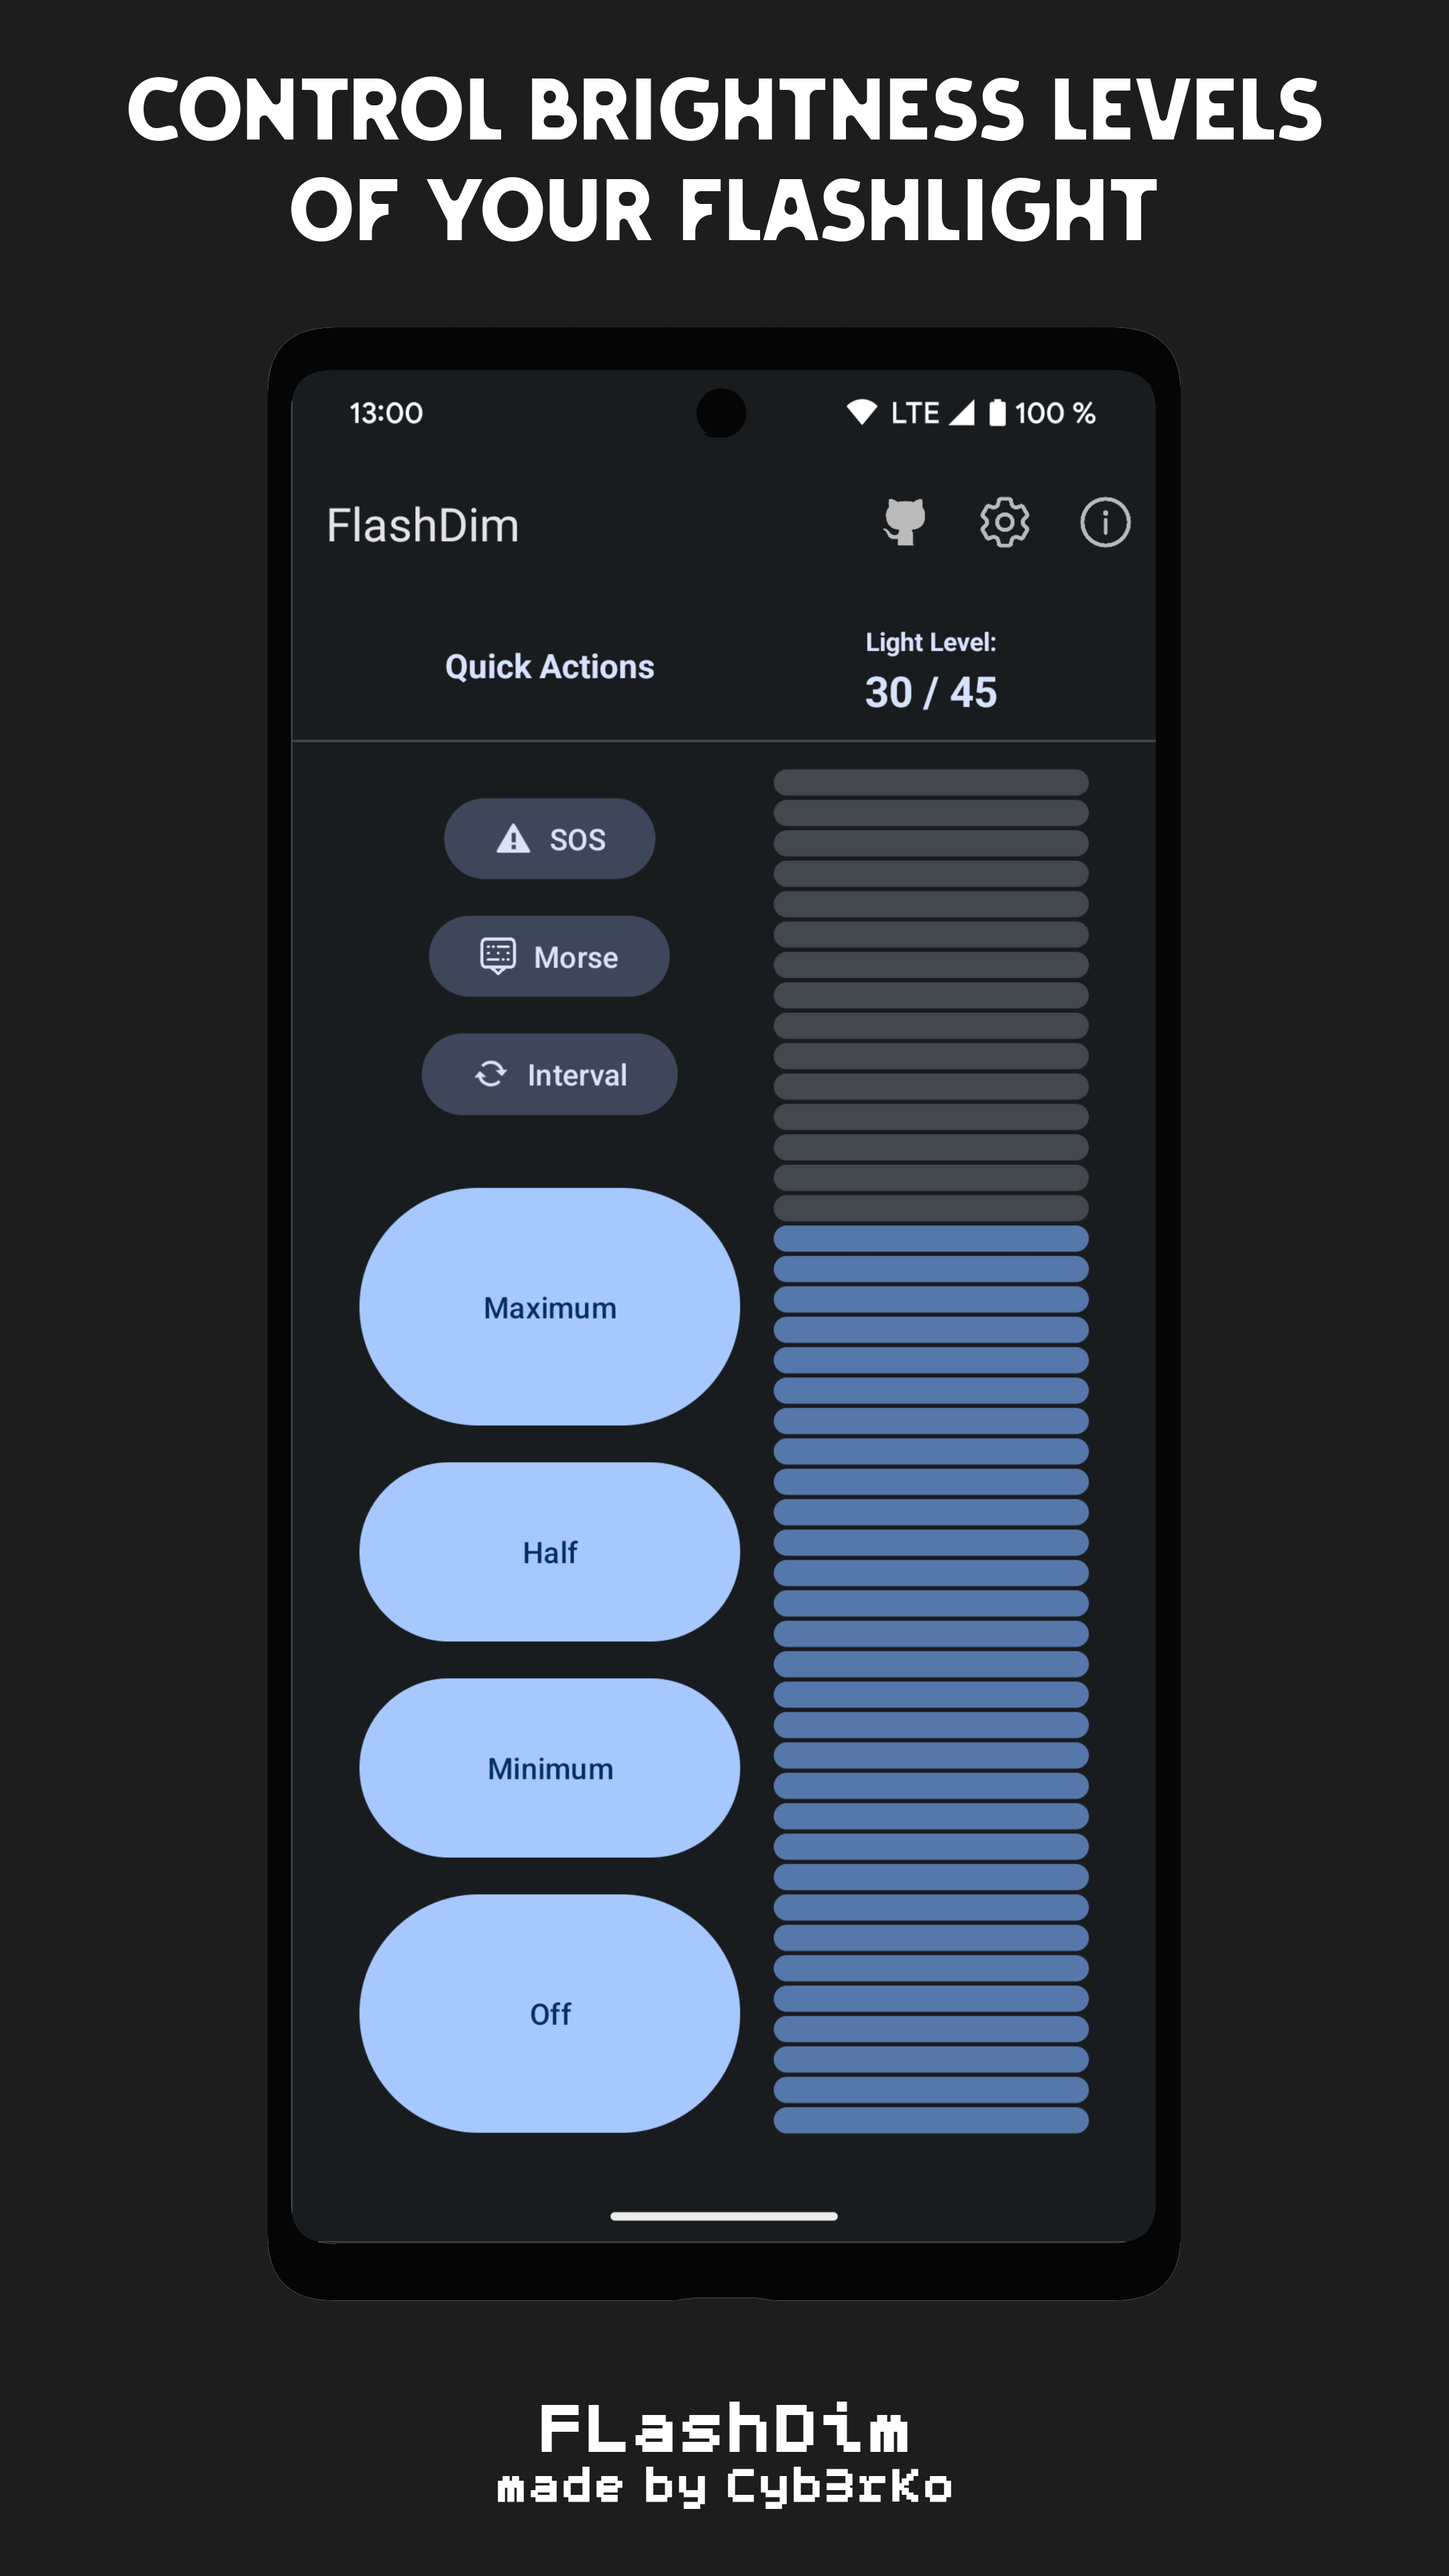
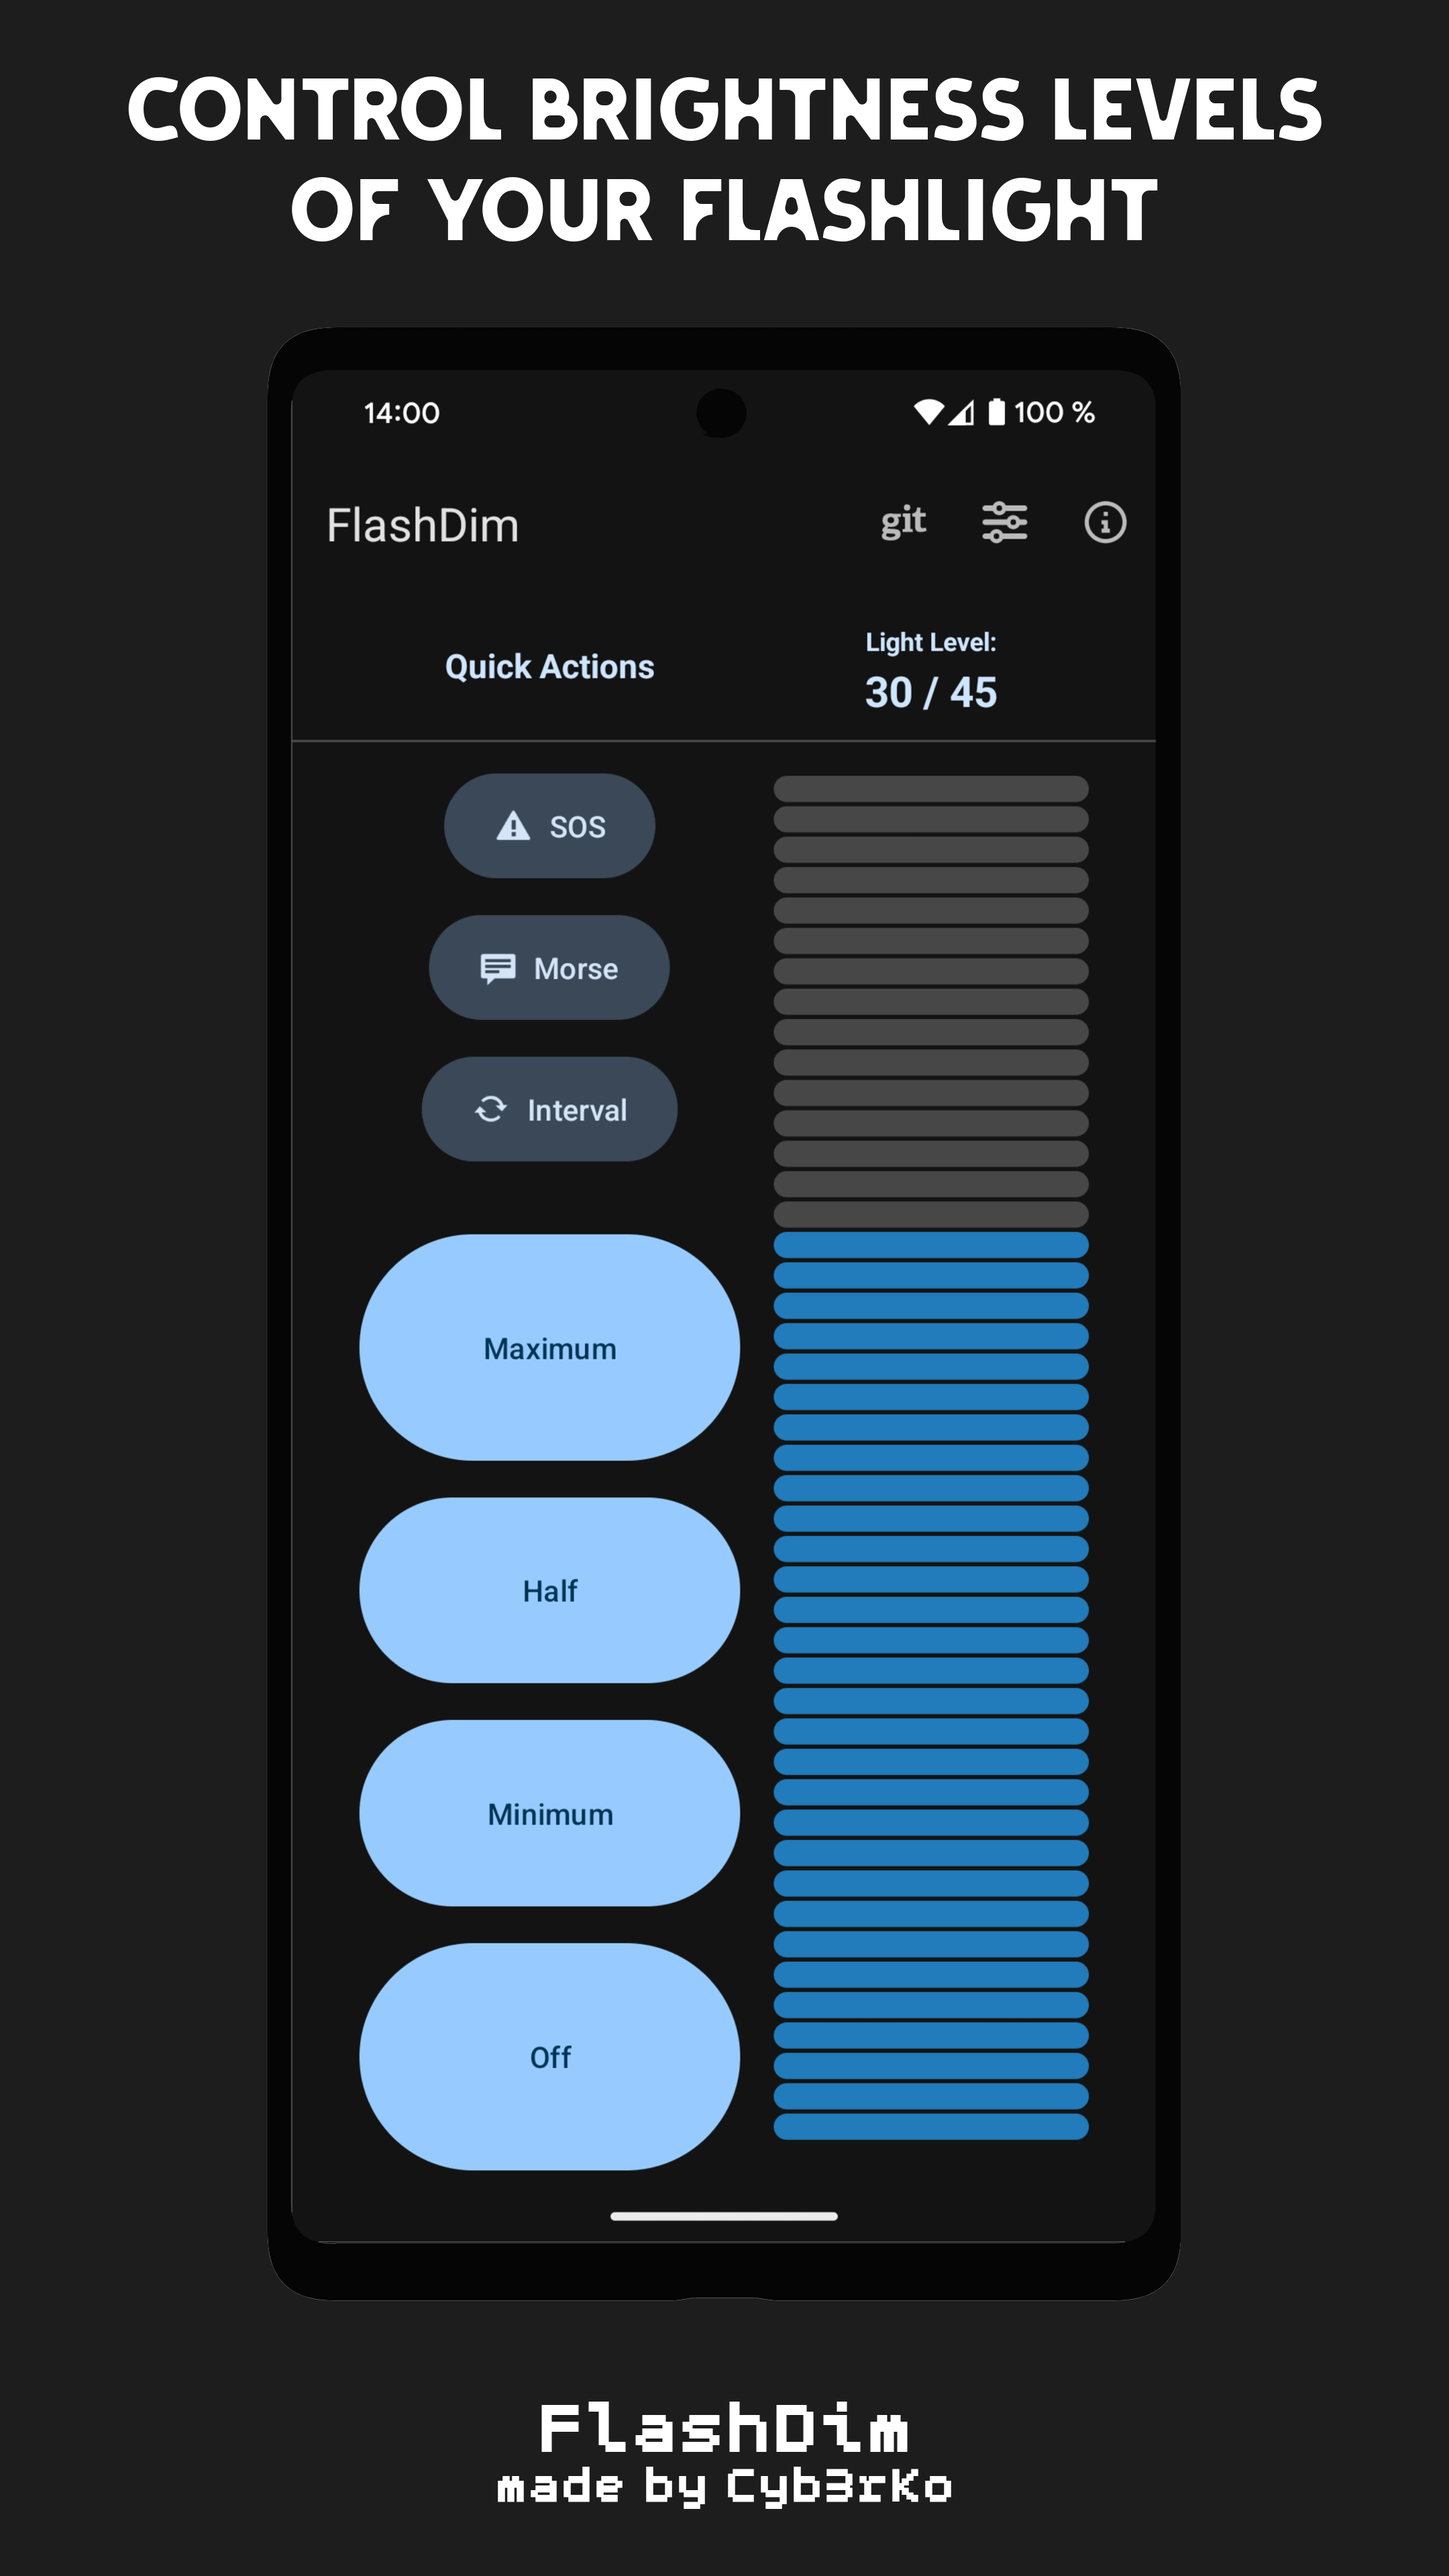
repo: Update screenshots and credits

diff --git a/README.md b/README.md
@@ -122,9 +122,9 @@ Certificate Digests:
 ```
 
 ## Screenshots
-|<img src="https://i.imgur.com/v0sPQYL.png" width="250">|<img src="https://i.imgur.com/iCfW7qm.png" width="250">|<img src="https://i.imgur.com/SoUi95t.png" width="250">|<img src="https://i.imgur.com/mQONbW5.png" width="250">|
+|<img src="metadata/en-US/images/phoneScreenshots/1.png" width="250">|<img src="metadata/en-US/images/phoneScreenshots/2.png" width="250">|<img src="metadata/en-US/images/phoneScreenshots/3.png" width="250">|<img src="metadata/en-US/images/phoneScreenshots/4.png" width="250">|
 |:---:|:---:|:---:|:---:|
-|<img src="https://i.imgur.com/lAkL2Cn.png" width="250">|<img src="https://i.imgur.com/R9LiPry.png" width="250">|
+|<img src="metadata/en-US/images/phoneScreenshots/5.png" width="250">|<img src="metadata/en-US/images/phoneScreenshots/6.png" width="250">|
 
 ## Supported Devices
 The full functionality of this app is ONLY AVAILABLE for devices which support the dim functionality of the flashlight (hardware limited).  
@@ -214,17 +214,10 @@ Using a unified code format makes it much easier for me and for everyone else.
 ## Used Icons
 
 | 💛 |
-| --- |  
-| <a href="https://www.flaticon.com/free-icons/github" title="github icons">Github icons created by Laisa Islam Ani - Flaticon</a> |
-| <a href="https://www.flaticon.com/free-icons/information" title="information icons">Information icons created by Freepik - Flaticon</a> |
-| <a href="https://www.flaticon.com/free-icons/link" title="link icons">Link icons created by Creaticca Creative Agency - Flaticon</a> |
-| <a href="https://www.flaticon.com/free-icons/morse-code" title="morse code icons">Morse code icons created by Freepik - Flaticon</a> |
-| <a href="https://www.flaticon.com/free-icons/restart" title="restart icons">Restart icons created by AlternativeStd - Flaticon</a> |
-| <a href="https://www.flaticon.com/free-icons/settings" title="settings icons">Settings icons created by Freepik - Flaticon</a> |
-| <a href="https://www.flaticon.com/free-icons/start-button" title="start button icons">Start button icons created by Freepik - Flaticon</a> |
-| <a href="https://www.flaticon.com/free-icons/ui" title="ui icons">Ui icons created by flashicon - Flaticon</a> |
-| <a href="https://www.flaticon.com/free-icons/vibrate" title="vibrate icons">Vibrate icons created by Bombasticon Studio - Flaticon</a> |
-| <a href="https://www.flaticon.com/free-icons/volume" title="volume icons">Volume icons created by Freepik - Flaticon</a> |
+| --- |
+| <a href="https://pictogrammers.com/library/mdi/icon/information-slab-circle-outline">information-slab-circle-outline created by Jeff Anders - Pictogrammers</a> |
+| <a href="https://pictogrammers.com/library/mdi/icon/vibrate">vibrate created by Google - Pictogrammers</a> |
+| <a href="https://pictogrammers.com/library/mdi/icon/rocket-launch-outline">rocket-launch-outline created by Michael Irigoyen - Pictogrammers</a> |
 
 ## License
 
